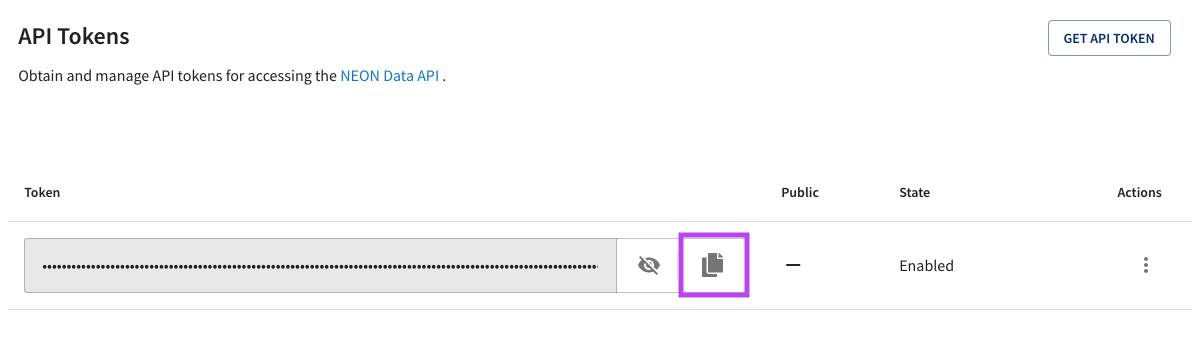
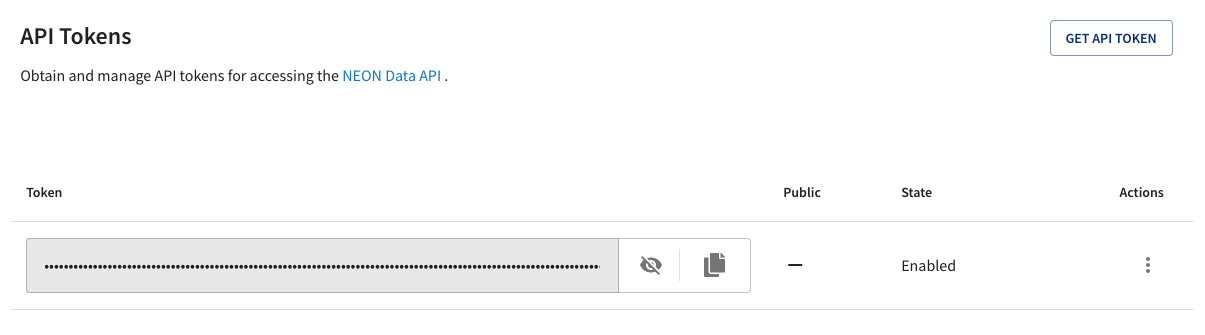
fix screenshots in token tutorial

diff --git a/tutorials/R/api-token/neon-api-tokens-tutorial.md b/tutorials/R/api-token/neon-api-tokens-tutorial.md
@@ -81,9 +81,6 @@ the bottom of the My Account page, you should see this bar:
 <figure>
 	<a href="{{ site.baseurl }}/images/NEON-api-token/get-api-token-button.png">
 	<img src="{{ site.baseurl }}/images/NEON-api-token/get-api-token-button.png" alt="Account page on NEON Data Portal showing Get API Token button."></a>
-	<figcaption>Screenshot of account page button to Get API Token. 
-	Source: National Ecological Observatory Network (NEON)
-	</figcaption>
 </figure>
 
 Click the 'GET API TOKEN' button. After a moment, you should see this:
@@ -91,9 +88,6 @@ Click the 'GET API TOKEN' button. After a moment, you should see this:
 <figure>
 	<a href="{{ site.baseurl }}/images/NEON-api-token/api-token-view.png">
 	<img src="{{ site.baseurl }}/images/NEON-api-token/api-token-view.png" alt="Account page on NEON Data Portal showing API token has been created."></a>
-	<figcaption>Screenshot of account page with API token created. 
-	Source: National Ecological Observatory Network (NEON)
-	</figcaption>
 </figure>
 
 Click on the Copy button to copy your API token to the clipboard:
@@ -101,9 +95,6 @@ Click on the Copy button to copy your API token to the clipboard:
 <figure>
 	<a href="{{ site.baseurl }}/images/NEON-api-token/api-token-copy-button.png">
 	<img src="{{ site.baseurl }}/images/NEON-api-token/api-token-copy-button.png" alt="Account page on NEON Data Portal showing API token with Copy button highlighted"></a>
-	<figcaption>Screenshot of account page with API token and copy button. 
-	Source: National Ecological Observatory Network (NEON)
-	</figcaption>
 </figure>
 
 ## Use API token in neonUtilities 
